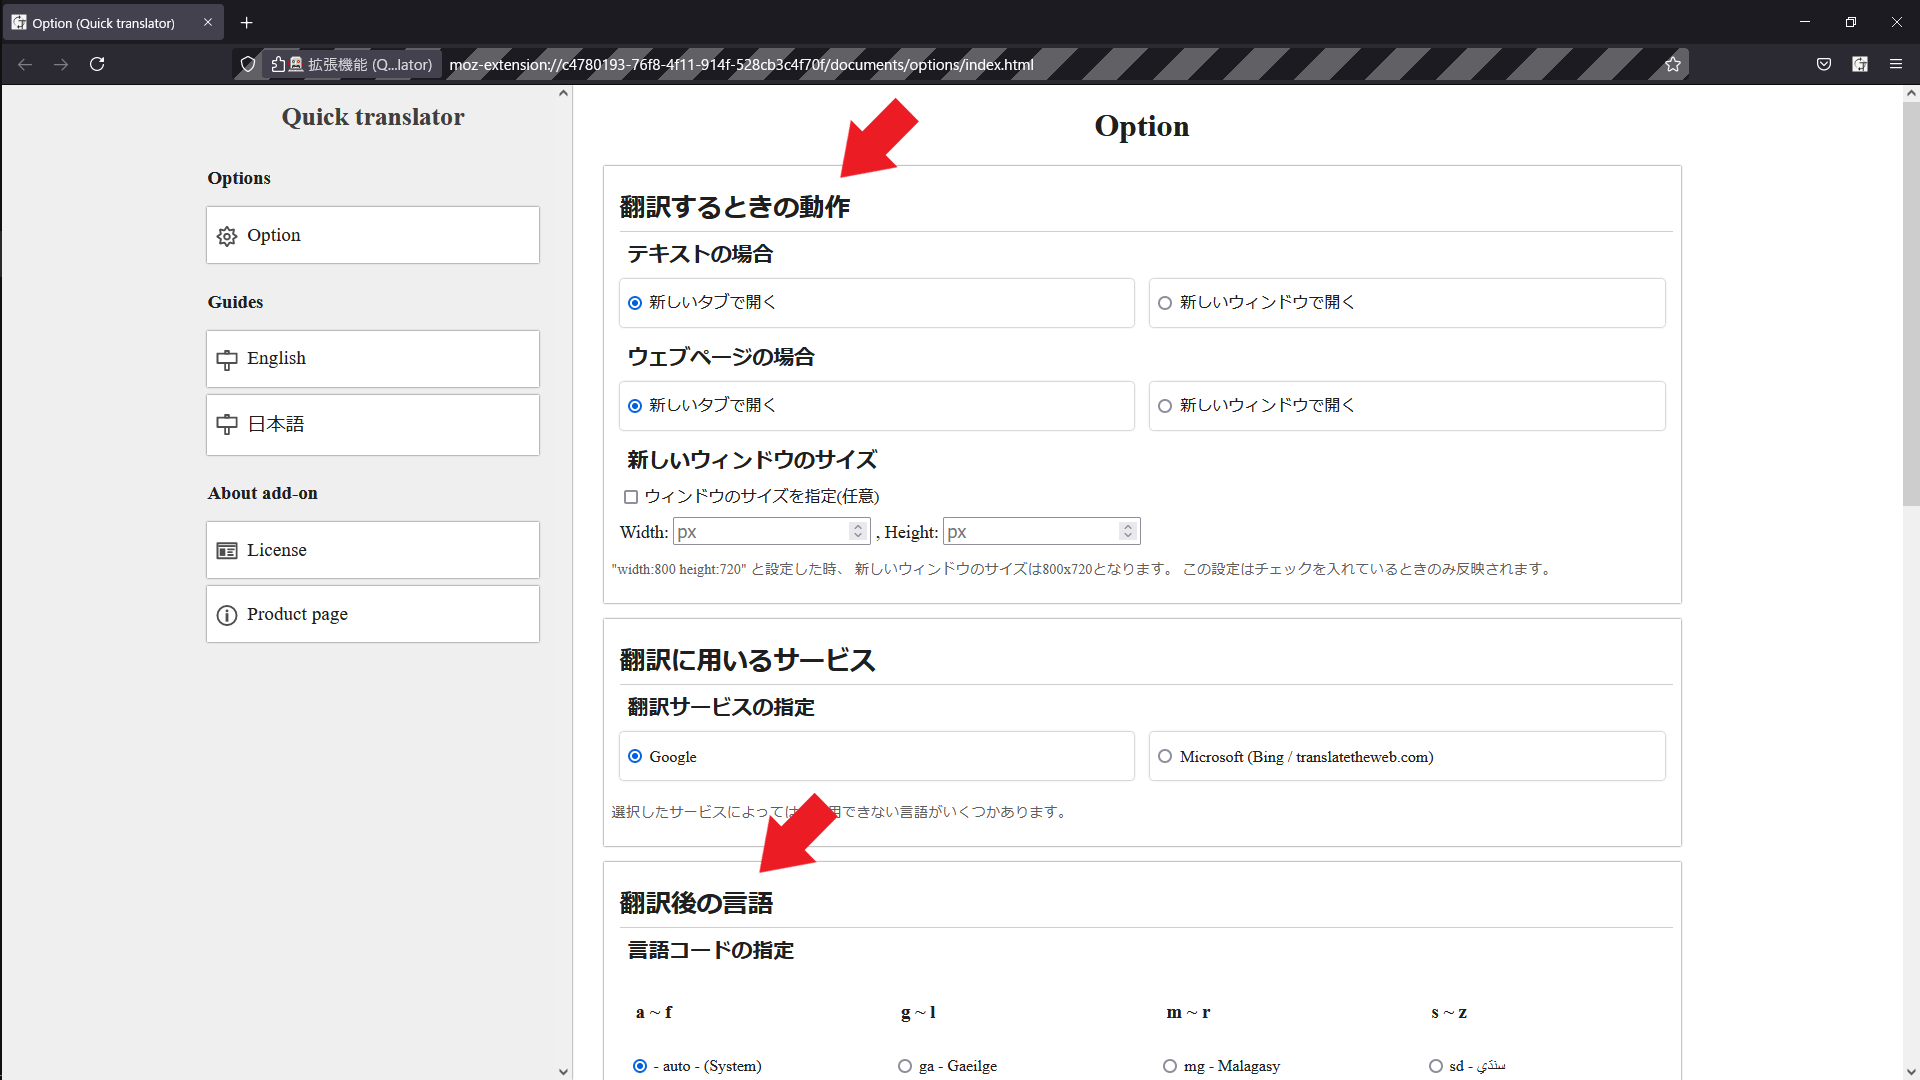
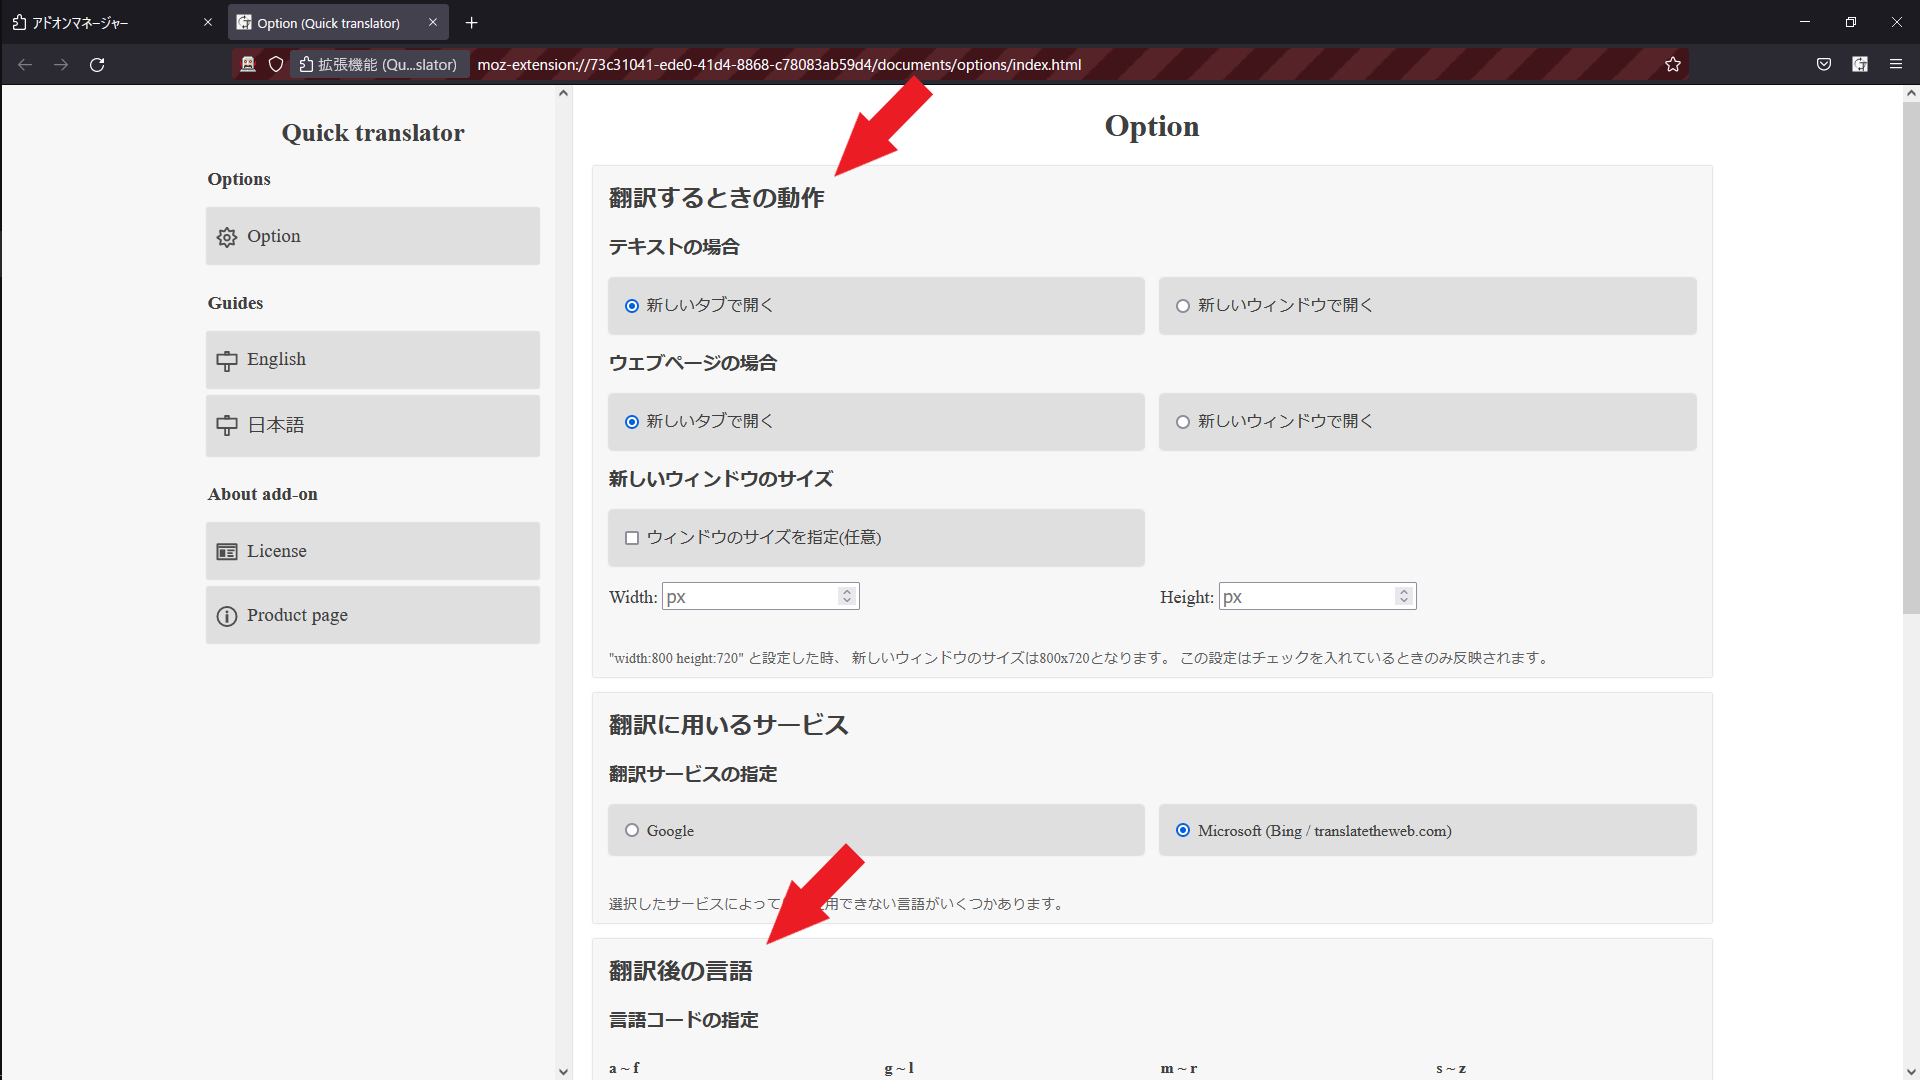
ver.2.2.49
* Updated screenshot.

diff --git a/documents/options/_inputDetector.js b/documents/options/_inputDetector.js
@@ -37,7 +37,7 @@ class InputDetector extends Options {
       if ( event.target instanceof HTMLInputElement ) {
         try {
           const flag = event.target.checked ? true : false;
-          await browser.storage.local.set({ [key]: Boolean( flag ) })
+          await browser.storage.local.set({ [key]: Boolean( flag ) });
           this.notification();
         } catch ( error ) {
           super.exceptionLog( error );
@@ -50,7 +50,7 @@ class InputDetector extends Options {
     form?.addEventListener( 'input', async ( event ) => {
       if ( event.target instanceof HTMLInputElement ) {
         try {
-          await browser.storage.local.set({ [key]: Number( event.target.value ) })
+          await browser.storage.local.set({ [key]: Number( event.target.value ) });
           this.notification();
         } catch ( error ) {
           super.exceptionLog( error );
@@ -63,7 +63,21 @@ class InputDetector extends Options {
     form?.addEventListener( 'input', async ( event ) => {
       if ( event.target instanceof HTMLInputElement ) {
         try {
-          await browser.storage.local.set({ [key]: event.target.value })
+          await browser.storage.local.set({ [key]: event.target.value });
+          this.notification();
+        } catch ( error ) {
+          super.exceptionLog( error );
+        }
+      }
+    }, false );
+  }
+
+  prepareServiceInput( key, form ) {
+    form?.addEventListener( 'input', async ( event ) => {
+      if ( event.target instanceof HTMLInputElement ) {
+        try {
+          await browser.storage.local.set({ [key]: event.target.value });
+          this.languageCodeListSwitch( event.target.value );
           this.notification();
         } catch ( error ) {
           super.exceptionLog( error );
@@ -79,5 +93,5 @@ InputDetectorIns.prepareRadioInput( 'openMethodWebpage', InputDetectorIns.getFor
 InputDetectorIns.prepareCheckBoxInput( 'specifySizeFlag', InputDetectorIns.getInputSpecifySizeFlag() );
 InputDetectorIns.prepareNumberInput( 'sizeWidth', InputDetectorIns.getInputNewWindowWidth() );
 InputDetectorIns.prepareNumberInput( 'sizeHeight', InputDetectorIns.getInputNewWindowHeight() );
-InputDetectorIns.prepareRadioInput( 'translationService', InputDetectorIns.getFormTranslationService() );
+InputDetectorIns.prepareServiceInput( 'translationService', InputDetectorIns.getFormTranslationService() );
 InputDetectorIns.prepareRadioInput( 'languageCode', InputDetectorIns.getFormLanguageCode() );

diff --git a/documents/javascript/_Header.js b/documents/javascript/_Header.js
@@ -14,6 +14,8 @@ import { Page } from './Page.js';
   menu;
   menuIcon;
   scroll;
+  closedMenuHeight;
+  openedMenuHeight;
 
   constructor() {
     super();
@@ -23,6 +25,8 @@ import { Page } from './Page.js';
     this.scroll   = {
       beforeY:  0,
     }
+    this.closedMenuHeight = '0px';
+    this.openedMenuHeight = '80vh';
   }
 
   watchScrollDirection() {
@@ -48,9 +52,8 @@ import { Page } from './Page.js';
       icon = this.menuIcon;
     }
     window.addEventListener( 'scroll', () => {
-      if ( ( super.currentAspectRatio() < 4/3 ) && ( menu.style.height == '70vh' ) ) {
-        icon.src          = icon.src.replace( 'menu-up', 'menu' );
-        menu.style.height = '0px';
+      if ( ( super.currentAspectRatio() < 4/3 ) && ( menu.style.height == this.openedMenuHeight ) ) {
+        menu.style.height = this.closedMenuHeight;
       }
     }, false );
   }
@@ -67,11 +70,11 @@ import { Page } from './Page.js';
     icon.addEventListener( 'click', () => {
       switch ( menu.style.height ) {
         case '':
-        case '0px':
-          menu.style.height = '80vh';
+        case this.closedMenuHeight:
+          menu.style.height = this.openedMenuHeight;
           break;
-        case '80vh':
-          menu.style.height = '0px';
+        case this.openedMenuHeight:
+          menu.style.height = this.closedMenuHeight;
           break;
       }
     }, false );
@@ -118,9 +121,9 @@ import { Page } from './Page.js';
       if ( super.currentAspectRatio() < 4/3 ) {
         header.style.height    = '4.0rem';
         header.style.overflowY = 'visible';
-        menu.style.height      = '0px';
+        menu.style.height      = this.closedMenuHeight;
       } else {
-        header.style.height    = '100vh';  
+        header.style.height    = '100vh';
         header.style.overflowY = 'scroll';
         menu.style.height      = '100vh';
       }

diff --git a/documents/guides/ja/guide-page.html b/documents/guides/ja/guide-page.html
@@ -56,7 +56,7 @@
     </header>
     <main>
       <h1>Guide page</h1>
-      <div class="timestamp">更新日: 2020年12月02日</div>
+      <div class="timestamp">更新日: 2021年07月21日</div>
       <h2>初期セットアップ</h2>
       <p>
         このアドオンを初めてインストールした時(再インストールも含む)、翻訳後の言語はブラウザのロケールによって決まります。また翻訳結果は新しいタブで開かれます。 <br>

diff --git a/documents/guides/en/guide-page.html b/documents/guides/en/guide-page.html
@@ -56,7 +56,7 @@
     </header>
     <main>
       <h1>Guide page</h1>
-      <div class="timestamp">Modified date: 2nd December 2020</div>
+      <div class="timestamp">Modified date: 21st July 2021</div>
       <h2>Initial setup</h2>
       <p>
         When this add-on is installed (including reinstallation), the translated language depends on browser's locale. Also translation result is opened in a new tab.<br>

diff --git a/documents/style.css b/documents/style.css
@@ -132,7 +132,7 @@ header > section.bar > .addon-title {
 
 @media screen and ( min-aspect-ratio: 4/3 ) {
   header > section.bar > .addon-title {
-    padding: 1.0rem 0 1.0rem 0;
+    padding: 2.0rem 0 2.0rem 0;
   }
 }
 

diff --git a/documents/options/options.js b/documents/options/options.js
@@ -67,6 +67,7 @@ export class Options {
   }
 
   async languageCodeListSwitch( service ) {
+    console.log( service );
     try {
       switch ( service ) {
         case 'google':
